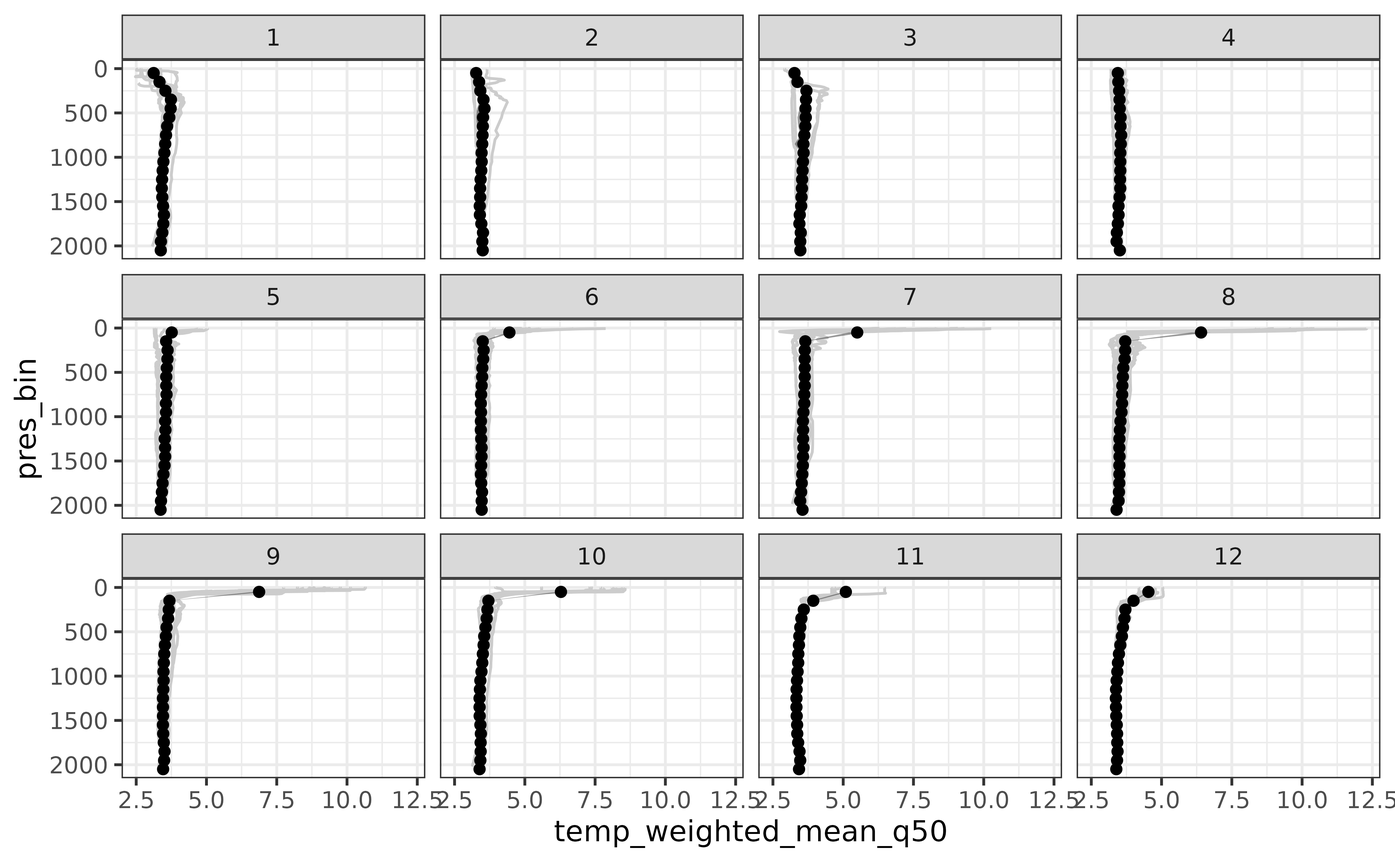
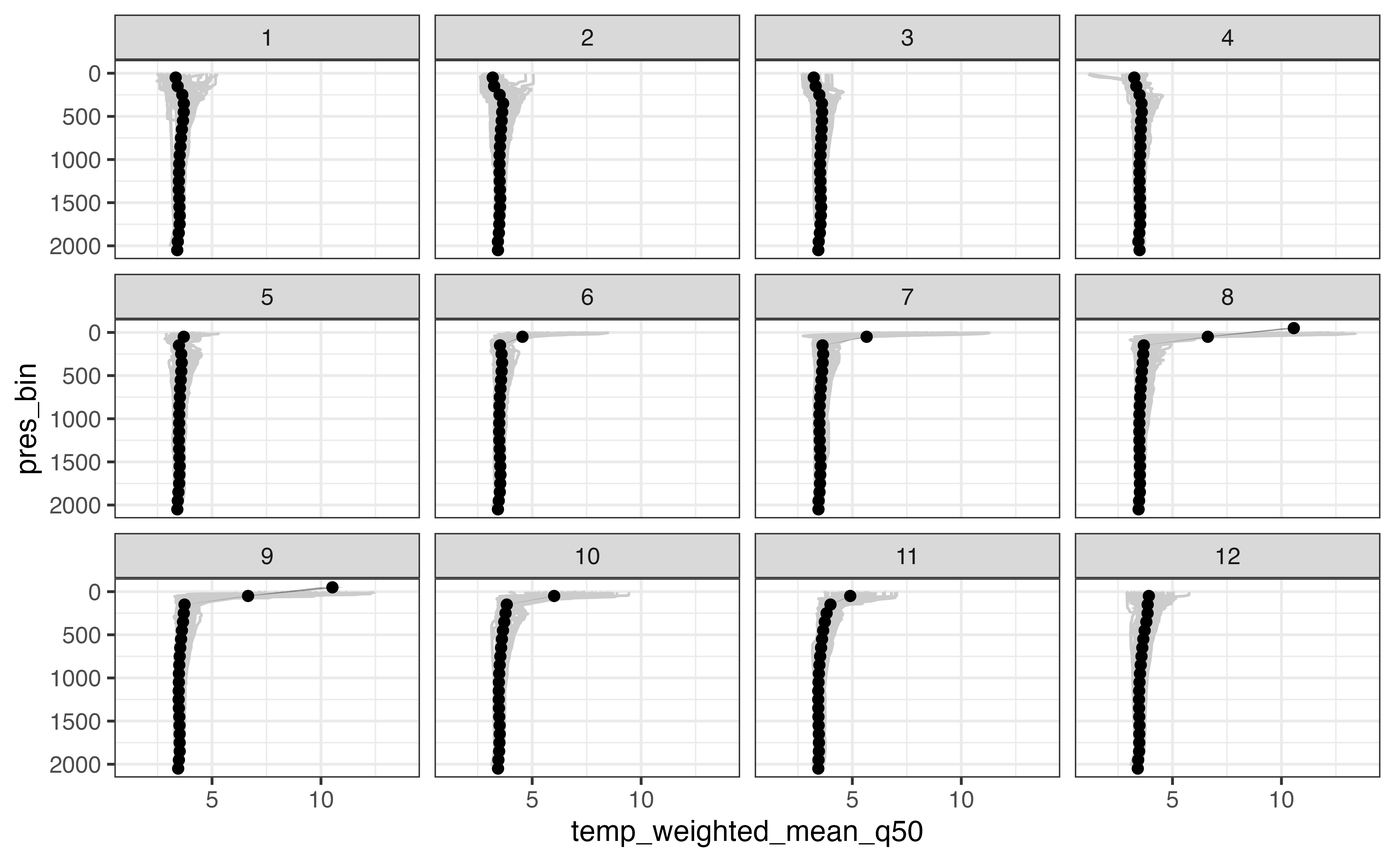
Built site for argodata: 0.0.0.9000@ea672b8

diff --git a/articles/articles/virtual-mooring.html b/articles/articles/virtual-mooring.html
@@ -108,7 +108,6 @@
 <div class="sourceCode" id="cb3"><pre class="downlit sourceCode r">
 <code class="sourceCode R"><span class="va">mooring_start</span> <span class="op">&lt;-</span> <span class="fu"><a href="https://rdrr.io/r/base/as.Date.html">as.Date</a></span><span class="op">(</span><span class="st">"2011-01-01"</span><span class="op">)</span>
 <span class="va">mooring_end</span> <span class="op">&lt;-</span> <span class="fu"><a href="https://rdrr.io/r/base/as.Date.html">as.Date</a></span><span class="op">(</span><span class="st">"2019-12-31"</span><span class="op">)</span></code></pre></div>
-<p>Finally, it is worth considering whether or not the “realtime” or “delayed” data sets best suits your use-case. The delayed data set is more likely to have poor-quality measurements corrected; however, the realtime data set may have more profiles available. You should pick one or the other to avoid double-counting profiles collected by the same float! In this article we will use the realtime data set.</p>
 <p>An index of all profiles available from the Argo program is available by calling <code><a href="../../reference/argo_global_meta.html">argo_global_prof()</a></code>. This will take 20-60 seconds to load depending on your internet connection; if you would like to avoid downloading the index file more than once you can <a href="https://github.com/ArgoCanada/argodata#installation">configure a persistent cache directory</a>, but be aware that this index is updated frequently.</p>
 <div class="sourceCode" id="cb4"><pre class="downlit sourceCode r">
 <code class="sourceCode R"><span class="va">profiles</span> <span class="op">&lt;-</span> <span class="fu"><a href="../../reference/argo_global_meta.html">argo_global_prof</a></span><span class="op">(</span><span class="op">)</span> <span class="op">%&gt;%</span>
@@ -121,26 +120,25 @@
     date_min <span class="op">=</span> <span class="va">mooring_start</span>,
     date_max <span class="op">=</span> <span class="va">mooring_end</span>
   <span class="op">)</span> <span class="op">%&gt;%</span> 
-  <span class="fu"><a href="../../reference/argo_filter_radius.html">argo_filter_data_mode</a></span><span class="op">(</span><span class="st">"realtime"</span><span class="op">)</span> <span class="op">%&gt;%</span> 
   <span class="fu"><a href="../../reference/argo_path_info.html">argo_extract_path_info</a></span><span class="op">(</span><span class="op">)</span> <span class="op">%&gt;%</span> 
   <span class="fu"><a href="https://dplyr.tidyverse.org/reference/select.html">select</a></span><span class="op">(</span><span class="va">file</span>, <span class="va">file_float</span>, <span class="va">date</span>, <span class="va">latitude</span>, <span class="va">longitude</span>, <span class="fu"><a href="https://tidyselect.r-lib.org/reference/everything.html">everything</a></span><span class="op">(</span><span class="op">)</span><span class="op">)</span> <span class="op">%&gt;%</span> 
   <span class="fu"><a href="https://dplyr.tidyverse.org/reference/arrange.html">arrange</a></span><span class="op">(</span><span class="va">date</span><span class="op">)</span>
 
 <span class="va">profiles</span>
-<span class="co">#&gt; # A tibble: 146 × 14</span>
+<span class="co">#&gt; # A tibble: 1,066 × 14</span>
 <span class="co">#&gt;    file   file_float date                latitude longitude file_type file_cycle</span>
 <span class="co">#&gt;    &lt;chr&gt;  &lt;chr&gt;      &lt;dttm&gt;                 &lt;dbl&gt;     &lt;dbl&gt; &lt;chr&gt;          &lt;int&gt;</span>
-<span class="co">#&gt;  1 meds/… 4901167    2011-07-03 12:58:00     56.1     -51.8 prof               6</span>
-<span class="co">#&gt;  2 meds/… 4901167    2011-07-13 14:27:00     56.3     -51.5 prof               7</span>
-<span class="co">#&gt;  3 meds/… 4901167    2011-07-23 12:54:00     56.2     -51.4 prof               8</span>
-<span class="co">#&gt;  4 meds/… 4901163    2011-07-30 17:58:00     56.7     -48.6 prof               8</span>
-<span class="co">#&gt;  5 meds/… 4901167    2011-08-02 14:32:00     56.0     -51.1 prof               9</span>
-<span class="co">#&gt;  6 meds/… 4901163    2011-08-09 16:16:00     56.8     -48.7 prof               9</span>
-<span class="co">#&gt;  7 meds/… 4901167    2011-08-12 13:01:00     55.8     -51.0 prof              10</span>
-<span class="co">#&gt;  8 meds/… 4901163    2011-08-19 16:41:00     56.8     -49.1 prof              10</span>
-<span class="co">#&gt;  9 meds/… 4901167    2011-08-22 14:24:00     56.5     -50.2 prof              11</span>
-<span class="co">#&gt; 10 meds/… 4901163    2011-08-29 18:08:00     56.7     -49.3 prof              11</span>
-<span class="co">#&gt; # … with 136 more rows, and 7 more variables: file_data_mode &lt;chr&gt;,</span>
+<span class="co">#&gt;  1 corio… 6900562    2011-01-04 18:46:44     56.4     -51.5 prof              58</span>
+<span class="co">#&gt;  2 corio… 6900555    2011-01-10 16:40:12     56.4     -47.6 prof              60</span>
+<span class="co">#&gt;  3 corio… 6900562    2011-01-19 18:10:01     56.1     -51.7 prof              59</span>
+<span class="co">#&gt;  4 meds/… 4900683    2011-01-27 03:55:00     54.7     -49.0 prof             170</span>
+<span class="co">#&gt;  5 meds/… 4901152    2011-01-27 23:17:00     55.3     -47.2 prof              26</span>
+<span class="co">#&gt;  6 meds/… 4900683    2011-02-06 07:13:00     55.0     -48.7 prof             171</span>
+<span class="co">#&gt;  7 meds/… 4900683    2011-02-16 03:49:00     55.2     -47.9 prof             172</span>
+<span class="co">#&gt;  8 corio… 6900562    2011-02-18 17:56:00     56.4     -51.2 prof              61</span>
+<span class="co">#&gt;  9 meds/… 4901123    2011-02-25 08:59:00     56.7     -50.8 prof              65</span>
+<span class="co">#&gt; 10 meds/… 4901123    2011-03-07 11:33:00     56.7     -50.9 prof              66</span>
+<span class="co">#&gt; # … with 1,056 more rows, and 7 more variables: file_data_mode &lt;chr&gt;,</span>
 <span class="co">#&gt; #   file_modifier &lt;chr&gt;, file_descending &lt;lgl&gt;, ocean &lt;chr&gt;,</span>
 <span class="co">#&gt; #   profiler_type &lt;dbl&gt;, institution &lt;chr&gt;, date_update &lt;dttm&gt;</span></code></pre></div>
 <p>A good sanity check is to examine the distribution of profiles in space and time, as we’ll be spending a lot of time examining the interactions between these dimensions. Below I’ve created a bar plot to examine the distribution of profiles both within and between years: there is a lot of variability! We will come back to this later on.</p>
@@ -174,24 +172,24 @@
 <div class="sourceCode" id="cb7"><pre class="downlit sourceCode r">
 <code class="sourceCode R"><span class="va">levels</span> <span class="op">&lt;-</span> <span class="fu"><a href="../../reference/argo_prof_levels.html">argo_prof_levels</a></span><span class="op">(</span><span class="va">profiles</span><span class="op">)</span> <span class="op">%&gt;%</span> 
   <span class="fu"><a href="https://dplyr.tidyverse.org/reference/select.html">select</a></span><span class="op">(</span><span class="va">file</span>, <span class="va">pres</span>, <span class="va">temp</span>, <span class="va">temp_qc</span>, <span class="fu"><a href="https://tidyselect.r-lib.org/reference/everything.html">everything</a></span><span class="op">(</span><span class="op">)</span><span class="op">)</span>
-<span class="co">#&gt; Downloading 146 files from 'https://data-argo.ifremer.fr'</span>
-<span class="co">#&gt; Extracting from 146 files</span>
+<span class="co">#&gt; Downloading 1066 files from 'https://data-argo.ifremer.fr'</span>
+<span class="co">#&gt; Extracting from 1066 files</span>
 
 <span class="va">levels</span>
-<span class="co">#&gt; # A tibble: 208,728 × 18</span>
+<span class="co">#&gt; # A tibble: 654,686 × 18</span>
 <span class="co">#&gt;    file                 pres  temp temp_qc n_levels n_prof pres_qc pres_adjusted</span>
 <span class="co">#&gt;    &lt;chr&gt;               &lt;dbl&gt; &lt;dbl&gt; &lt;chr&gt;      &lt;int&gt;  &lt;int&gt; &lt;chr&gt;           &lt;dbl&gt;</span>
-<span class="co">#&gt;  1 meds/4901167/profi…  6.70  7.24 1              1      1 1                6.90</span>
-<span class="co">#&gt;  2 meds/4901167/profi… 10.8   6.83 1              2      1 1               11   </span>
-<span class="co">#&gt;  3 meds/4901167/profi… 20.1   5.51 1              3      1 1               20.3 </span>
-<span class="co">#&gt;  4 meds/4901167/profi… 30.2   3.85 1              4      1 1               30.4 </span>
-<span class="co">#&gt;  5 meds/4901167/profi… 40.5   3.68 1              5      1 1               40.7 </span>
-<span class="co">#&gt;  6 meds/4901167/profi… 49.9   3.88 1              6      1 1               50.1 </span>
-<span class="co">#&gt;  7 meds/4901167/profi… 59.8   4.01 1              7      1 1               60   </span>
-<span class="co">#&gt;  8 meds/4901167/profi… 69     3.95 1              8      1 1               69.2 </span>
-<span class="co">#&gt;  9 meds/4901167/profi… 80.6   3.63 1              9      1 1               80.8 </span>
-<span class="co">#&gt; 10 meds/4901167/profi… 90.6   3.94 1             10      1 1               90.8 </span>
-<span class="co">#&gt; # … with 208,718 more rows, and 10 more variables: pres_adjusted_qc &lt;chr&gt;,</span>
+<span class="co">#&gt;  1 coriolis/6900562/p…  10    5.20 1              1      1 1                8.10</span>
+<span class="co">#&gt;  2 coriolis/6900562/p…  19.9  5.23 1              2      1 1               18   </span>
+<span class="co">#&gt;  3 coriolis/6900562/p…  30.5  5.20 1              3      1 1               28.6 </span>
+<span class="co">#&gt;  4 coriolis/6900562/p…  40.5  5.07 1              4      1 1               38.6 </span>
+<span class="co">#&gt;  5 coriolis/6900562/p…  48    4.88 1              5      1 1               46.1 </span>
+<span class="co">#&gt;  6 coriolis/6900562/p…  60.5  4.87 1              6      1 1               58.6 </span>
+<span class="co">#&gt;  7 coriolis/6900562/p…  70.4  4.87 1              7      1 1               68.5 </span>
+<span class="co">#&gt;  8 coriolis/6900562/p…  80.2  4.86 1              8      1 1               78.3 </span>
+<span class="co">#&gt;  9 coriolis/6900562/p…  99.9  4.83 1              9      1 1               98   </span>
+<span class="co">#&gt; 10 coriolis/6900562/p… 120    4.81 1             10      1 1              118.  </span>
+<span class="co">#&gt; # … with 654,676 more rows, and 10 more variables: pres_adjusted_qc &lt;chr&gt;,</span>
 <span class="co">#&gt; #   pres_adjusted_error &lt;dbl&gt;, temp_adjusted &lt;dbl&gt;, temp_adjusted_qc &lt;chr&gt;,</span>
 <span class="co">#&gt; #   temp_adjusted_error &lt;dbl&gt;, psal &lt;dbl&gt;, psal_qc &lt;chr&gt;, psal_adjusted &lt;dbl&gt;,</span>
 <span class="co">#&gt; #   psal_adjusted_qc &lt;chr&gt;, psal_adjusted_error &lt;dbl&gt;</span></code></pre></div>
@@ -204,7 +202,7 @@
 <code class="sourceCode R"><span class="fu"><a href="https://ggplot2.tidyverse.org/reference/ggplot.html">ggplot</a></span><span class="op">(</span><span class="va">levels</span>, <span class="fu"><a href="https://ggplot2.tidyverse.org/reference/aes.html">aes</a></span><span class="op">(</span>y <span class="op">=</span> <span class="va">pres</span>, x <span class="op">=</span> <span class="va">temp</span>, col <span class="op">=</span> <span class="va">temp_qc</span><span class="op">)</span><span class="op">)</span> <span class="op">+</span>
   <span class="fu">geom_point</span><span class="op">(</span><span class="op">)</span> <span class="op">+</span>
   <span class="fu">scale_y_reverse</span><span class="op">(</span><span class="op">)</span>
-<span class="co">#&gt; Warning: Removed 165011 rows containing missing values (geom_point).</span></code></pre></div>
+<span class="co">#&gt; Warning: Removed 369986 rows containing missing values (geom_point).</span></code></pre></div>
 <p><img src="virtual-mooring_files/figure-html/unnamed-chunk-8-1.png" width="2187.5"></p>
 <p>From this plot it’s clear that there are some points with clearly bad values that we need to take care of. A similar plot of <code>pres_qc</code> indicates that there are some bad pressure values as well. Depending what stage you are at in your analysis, you may want to remove rows that you can’t use in future analysis or set these values to <code>NA</code>. I’ll demonstrate the latter here using <code><a href="../../reference/argo_qc_censor_if_not.html">argo_qc_censor_if_not()</a></code>, which sets values to <code>NA</code> where the paired <code>_qc</code> column is not in a specified vector of values. The only value that makes sense to keep based on a plot of our results is <code>1</code>, which corresponds to “good data” in the reference table (beware that not all data marked “good” has been checked with the same degree of scrutiny!).</p>
 <div class="sourceCode" id="cb9"><pre class="downlit sourceCode r">
@@ -218,7 +216,7 @@
     alpha <span class="op">=</span> <span class="fl">0.05</span>
   <span class="op">)</span> <span class="op">+</span>
   <span class="fu">scale_y_reverse</span><span class="op">(</span><span class="op">)</span>
-<span class="co">#&gt; Warning: Removed 166713 row(s) containing missing values (geom_path).</span></code></pre></div>
+<span class="co">#&gt; Warning: Removed 375794 row(s) containing missing values (geom_path).</span></code></pre></div>
 <p><img src="virtual-mooring_files/figure-html/unnamed-chunk-9-1.png" width="2187.5"></p>
 <p>We’ve set a lot of values to <code>NA</code> - in some cases many profiles worth. While we do want to keep a record of levels even if the temperature was set to <code>NA</code> because of its <code>_qc</code> column value, we also don’t need profiles where there is little temperature information, and including them in our data moving forward is not useful.</p>
 <div class="sourceCode" id="cb10"><pre class="downlit sourceCode r">
@@ -248,20 +246,20 @@
   <span class="fu"><a href="https://dplyr.tidyverse.org/reference/select.html">select</a></span><span class="op">(</span><span class="va">file</span>, <span class="va">longitude</span>, <span class="va">latitude</span>, <span class="va">distance_km</span>, <span class="va">distance_weight</span><span class="op">)</span>
 
 <span class="va">profile_weighted</span>
-<span class="co">#&gt; # A tibble: 146 × 5</span>
-<span class="co">#&gt;    file                                  longitude latitude distance_km distance_weight</span>
-<span class="co">#&gt;    &lt;chr&gt;                                     &lt;dbl&gt;    &lt;dbl&gt;       &lt;dbl&gt;           &lt;dbl&gt;</span>
-<span class="co">#&gt;  1 meds/4901167/profiles/R4901167_006.nc     -51.8     56.1       150.           0.0817</span>
-<span class="co">#&gt;  2 meds/4901167/profiles/R4901167_007.nc     -51.5     56.3       139.           0.0847</span>
-<span class="co">#&gt;  3 meds/4901167/profiles/R4901167_008.nc     -51.4     56.2       127.           0.0886</span>
-<span class="co">#&gt;  4 meds/4901163/profiles/R4901163_008.nc     -48.6     56.7       129.           0.0879</span>
-<span class="co">#&gt;  5 meds/4901167/profiles/R4901167_009.nc     -51.1     56.0       107.           0.0968</span>
-<span class="co">#&gt;  6 meds/4901163/profiles/R4901163_009.nc     -48.7     56.8       137.           0.0855</span>
-<span class="co">#&gt;  7 meds/4901167/profiles/R4901167_010.nc     -51.0     55.8        96.2          0.102 </span>
-<span class="co">#&gt;  8 meds/4901163/profiles/R4901163_010.nc     -49.1     56.8       125.           0.0895</span>
-<span class="co">#&gt;  9 meds/4901167/profiles/R4901167_011.nc     -50.2     56.5        93.7          0.103 </span>
-<span class="co">#&gt; 10 meds/4901163/profiles/R4901163_011.nc     -49.3     56.7       117.           0.0924</span>
-<span class="co">#&gt; # … with 136 more rows</span></code></pre></div>
+<span class="co">#&gt; # A tibble: 1,066 × 5</span>
+<span class="co">#&gt;    file                           longitude latitude distance_km distance_weight</span>
+<span class="co">#&gt;    &lt;chr&gt;                              &lt;dbl&gt;    &lt;dbl&gt;       &lt;dbl&gt;           &lt;dbl&gt;</span>
+<span class="co">#&gt;  1 coriolis/6900562/profiles/D69…     -51.5     56.4       146.           0.0828</span>
+<span class="co">#&gt;  2 coriolis/6900555/profiles/D69…     -47.6     56.4       141.           0.0844</span>
+<span class="co">#&gt;  3 coriolis/6900562/profiles/D69…     -51.7     56.1       144.           0.0834</span>
+<span class="co">#&gt;  4 meds/4900683/profiles/D490068…     -49.0     54.7       118.           0.0921</span>
+<span class="co">#&gt;  5 meds/4901152/profiles/D490115…     -47.2     55.3       148.           0.0823</span>
+<span class="co">#&gt;  6 meds/4900683/profiles/D490068…     -48.7     55.0        92.3          0.104 </span>
+<span class="co">#&gt;  7 meds/4900683/profiles/D490068…     -47.9     55.2       119.           0.0915</span>
+<span class="co">#&gt;  8 coriolis/6900562/profiles/D69…     -51.2     56.4       131.           0.0875</span>
+<span class="co">#&gt;  9 meds/4901123/profiles/D490112…     -50.8     56.7       140.           0.0845</span>
+<span class="co">#&gt; 10 meds/4901123/profiles/D490112…     -50.9     56.7       142.           0.0838</span>
+<span class="co">#&gt; # … with 1,056 more rows</span></code></pre></div>
 <p>The next step is to choose bins that are appropriate to the scale of the problem. In this case, we’re interested in monthly bins (regardless of year) and depth bins 10 decibars in height. These bin sizes reflect the amount of data we have: if we were only summarizing 2019, for which there are many profiles with high-resolution sampling intervals, we may be able to use smaller bins (e.g., one bin per month per year or 1 decibar height).</p>
 <div class="sourceCode" id="cb12"><pre class="downlit sourceCode r">
 <code class="sourceCode R"><span class="va">levels_binned</span> <span class="op">&lt;-</span> <span class="va">levels_clean</span> <span class="op">%&gt;%</span>
@@ -273,20 +271,20 @@
   <span class="fu"><a href="https://dplyr.tidyverse.org/reference/select.html">select</a></span><span class="op">(</span><span class="va">pres_bin</span>, <span class="va">date_bin</span>, <span class="fu"><a href="https://tidyselect.r-lib.org/reference/everything.html">everything</a></span><span class="op">(</span><span class="op">)</span><span class="op">)</span>
 
 <span class="va">levels_binned</span>
-<span class="co">#&gt; # A tibble: 32,295 × 21</span>
+<span class="co">#&gt; # A tibble: 258,500 × 21</span>
 <span class="co">#&gt;    pres_bin date_bin file             pres  temp temp_qc n_levels n_prof pres_qc</span>
 <span class="co">#&gt;       &lt;dbl&gt;    &lt;dbl&gt; &lt;chr&gt;           &lt;dbl&gt; &lt;dbl&gt; &lt;chr&gt;      &lt;int&gt;  &lt;int&gt; &lt;chr&gt;  </span>
-<span class="co">#&gt;  1       50        7 meds/4901167/p…  6.70  7.24 1              1      1 1      </span>
-<span class="co">#&gt;  2       50        7 meds/4901167/p… 10.8   6.83 1              2      1 1      </span>
-<span class="co">#&gt;  3       50        7 meds/4901167/p… 20.1   5.51 1              3      1 1      </span>
-<span class="co">#&gt;  4       50        7 meds/4901167/p… 30.2   3.85 1              4      1 1      </span>
-<span class="co">#&gt;  5       50        7 meds/4901167/p… 40.5   3.68 1              5      1 1      </span>
-<span class="co">#&gt;  6       50        7 meds/4901167/p… 49.9   3.88 1              6      1 1      </span>
-<span class="co">#&gt;  7       50        7 meds/4901167/p… 59.8   4.01 1              7      1 1      </span>
-<span class="co">#&gt;  8       50        7 meds/4901167/p… 69     3.95 1              8      1 1      </span>
-<span class="co">#&gt;  9       50        7 meds/4901167/p… 80.6   3.63 1              9      1 1      </span>
-<span class="co">#&gt; 10       50        7 meds/4901167/p… 90.6   3.94 1             10      1 1      </span>
-<span class="co">#&gt; # … with 32,285 more rows, and 12 more variables: pres_adjusted &lt;dbl&gt;,</span>
+<span class="co">#&gt;  1       50        1 coriolis/69005…  10    5.20 1              1      1 1      </span>
+<span class="co">#&gt;  2       50        1 coriolis/69005…  19.9  5.23 1              2      1 1      </span>
+<span class="co">#&gt;  3       50        1 coriolis/69005…  30.5  5.20 1              3      1 1      </span>
+<span class="co">#&gt;  4       50        1 coriolis/69005…  40.5  5.07 1              4      1 1      </span>
+<span class="co">#&gt;  5       50        1 coriolis/69005…  48    4.88 1              5      1 1      </span>
+<span class="co">#&gt;  6       50        1 coriolis/69005…  60.5  4.87 1              6      1 1      </span>
+<span class="co">#&gt;  7       50        1 coriolis/69005…  70.4  4.87 1              7      1 1      </span>
+<span class="co">#&gt;  8       50        1 coriolis/69005…  80.2  4.86 1              8      1 1      </span>
+<span class="co">#&gt;  9       50        1 coriolis/69005…  99.9  4.83 1              9      1 1      </span>
+<span class="co">#&gt; 10      150        1 coriolis/69005… 120    4.81 1             10      1 1      </span>
+<span class="co">#&gt; # … with 258,490 more rows, and 12 more variables: pres_adjusted &lt;dbl&gt;,</span>
 <span class="co">#&gt; #   pres_adjusted_qc &lt;chr&gt;, pres_adjusted_error &lt;dbl&gt;, temp_adjusted &lt;dbl&gt;,</span>
 <span class="co">#&gt; #   temp_adjusted_qc &lt;chr&gt;, temp_adjusted_error &lt;dbl&gt;, psal &lt;dbl&gt;,</span>
 <span class="co">#&gt; #   psal_qc &lt;chr&gt;, psal_adjusted &lt;dbl&gt;, psal_adjusted_qc &lt;chr&gt;,</span>
@@ -305,21 +303,21 @@
   <span class="fu"><a href="https://dplyr.tidyverse.org/reference/select.html">select</a></span><span class="op">(</span><span class="va">pres_bin</span>, <span class="va">date_bin</span>, <span class="va">weight</span>, <span class="va">file</span>, <span class="va">date</span>, <span class="va">pres</span>, <span class="va">temp</span>, <span class="fu"><a href="https://tidyselect.r-lib.org/reference/everything.html">everything</a></span><span class="op">(</span><span class="op">)</span><span class="op">)</span>
 
 <span class="va">levels_binned_weighted</span>
-<span class="co">#&gt; # A tibble: 32,295 × 27</span>
+<span class="co">#&gt; # A tibble: 258,500 × 27</span>
 <span class="co">#&gt;    pres_bin date_bin  weight file        date                 pres  temp temp_qc</span>
 <span class="co">#&gt;       &lt;dbl&gt;    &lt;dbl&gt;   &lt;dbl&gt; &lt;chr&gt;       &lt;dttm&gt;              &lt;dbl&gt; &lt;dbl&gt; &lt;chr&gt;  </span>
-<span class="co">#&gt;  1       50        7 0.00861 meds/49011… 2011-07-03 12:58:00  6.70  7.24 1      </span>
-<span class="co">#&gt;  2       50        7 0.00861 meds/49011… 2011-07-03 12:58:00 10.8   6.83 1      </span>
-<span class="co">#&gt;  3       50        7 0.00861 meds/49011… 2011-07-03 12:58:00 20.1   5.51 1      </span>
-<span class="co">#&gt;  4       50        7 0.00861 meds/49011… 2011-07-03 12:58:00 30.2   3.85 1      </span>
-<span class="co">#&gt;  5       50        7 0.00861 meds/49011… 2011-07-03 12:58:00 40.5   3.68 1      </span>
-<span class="co">#&gt;  6       50        7 0.00861 meds/49011… 2011-07-03 12:58:00 49.9   3.88 1      </span>
-<span class="co">#&gt;  7       50        7 0.00861 meds/49011… 2011-07-03 12:58:00 59.8   4.01 1      </span>
-<span class="co">#&gt;  8       50        7 0.00861 meds/49011… 2011-07-03 12:58:00 69     3.95 1      </span>
-<span class="co">#&gt;  9       50        7 0.00861 meds/49011… 2011-07-03 12:58:00 80.6   3.63 1      </span>
-<span class="co">#&gt; 10       50        7 0.00861 meds/49011… 2011-07-03 12:58:00 90.6   3.94 1      </span>
-<span class="co">#&gt; # … with 32,285 more rows, and 19 more variables: n_levels &lt;int&gt;, n_prof &lt;int&gt;,</span>
-<span class="co">#&gt; #   pres_qc &lt;chr&gt;, pres_adjusted &lt;dbl&gt;, pres_adjusted_qc &lt;chr&gt;,</span>
+<span class="co">#&gt;  1       50        1 0.00161 coriolis/6… 2011-01-04 18:46:44  10    5.20 1      </span>
+<span class="co">#&gt;  2       50        1 0.00161 coriolis/6… 2011-01-04 18:46:44  19.9  5.23 1      </span>
+<span class="co">#&gt;  3       50        1 0.00161 coriolis/6… 2011-01-04 18:46:44  30.5  5.20 1      </span>
+<span class="co">#&gt;  4       50        1 0.00161 coriolis/6… 2011-01-04 18:46:44  40.5  5.07 1      </span>
+<span class="co">#&gt;  5       50        1 0.00161 coriolis/6… 2011-01-04 18:46:44  48    4.88 1      </span>
+<span class="co">#&gt;  6       50        1 0.00161 coriolis/6… 2011-01-04 18:46:44  60.5  4.87 1      </span>
+<span class="co">#&gt;  7       50        1 0.00161 coriolis/6… 2011-01-04 18:46:44  70.4  4.87 1      </span>
+<span class="co">#&gt;  8       50        1 0.00161 coriolis/6… 2011-01-04 18:46:44  80.2  4.86 1      </span>
+<span class="co">#&gt;  9       50        1 0.00161 coriolis/6… 2011-01-04 18:46:44  99.9  4.83 1      </span>
+<span class="co">#&gt; 10      150        1 0.00362 coriolis/6… 2011-01-04 18:46:44 120    4.81 1      </span>
+<span class="co">#&gt; # … with 258,490 more rows, and 19 more variables: n_levels &lt;int&gt;,</span>
+<span class="co">#&gt; #   n_prof &lt;int&gt;, pres_qc &lt;chr&gt;, pres_adjusted &lt;dbl&gt;, pres_adjusted_qc &lt;chr&gt;,</span>
 <span class="co">#&gt; #   pres_adjusted_error &lt;dbl&gt;, temp_adjusted &lt;dbl&gt;, temp_adjusted_qc &lt;chr&gt;,</span>
 <span class="co">#&gt; #   temp_adjusted_error &lt;dbl&gt;, psal &lt;dbl&gt;, psal_qc &lt;chr&gt;, psal_adjusted &lt;dbl&gt;,</span>
 <span class="co">#&gt; #   psal_adjusted_qc &lt;chr&gt;, psal_adjusted_error &lt;dbl&gt;, profile_weight &lt;dbl&gt;,</span>
@@ -345,8 +343,8 @@
   <span class="fu">geom_point</span><span class="op">(</span><span class="op">)</span> <span class="op">+</span>
   <span class="fu">scale_y_reverse</span><span class="op">(</span><span class="op">)</span> <span class="op">+</span>
   <span class="fu">facet_wrap</span><span class="op">(</span><span class="fu"><a href="https://dplyr.tidyverse.org/reference/vars.html">vars</a></span><span class="op">(</span><span class="va">date_bin</span><span class="op">)</span><span class="op">)</span>
-<span class="co">#&gt; Warning: Removed 1173 row(s) containing missing values (geom_path).</span>
-<span class="co">#&gt; Warning: Removed 2 rows containing missing values (geom_point).</span></code></pre></div>
+<span class="co">#&gt; Warning: Removed 5623 row(s) containing missing values (geom_path).</span>
+<span class="co">#&gt; Warning: Removed 6 rows containing missing values (geom_point).</span></code></pre></div>
 <p><img src="virtual-mooring_files/figure-html/unnamed-chunk-15-1.png" width="2187.5"></p>
 <p>This is a good first step in your analysis: if the above diagram was not in line with our knowledge of the ocean at this location, it is a clue that some part of our analysis went wrong. However, it is not able to communicate the spread of values that we observed in each bin. Are the profiles for a given month of the year similar over the last 10 years or not?</p>
 <p>One technique that allows calculation of error in this way is sampling: we can draw a random sample of size <code>n</code> from the values available for each bin (applying the weights such that values with a higher weight are more likely to be drawn than others). We can repeat this analysis <code>k</code> times and use the distribution of the values we observe for each bin to communicate the uncertainty of our results.</p>
@@ -384,8 +382,8 @@
   <span class="fu">geom_point</span><span class="op">(</span><span class="op">)</span> <span class="op">+</span>
   <span class="fu">scale_y_reverse</span><span class="op">(</span><span class="op">)</span> <span class="op">+</span>
   <span class="fu">facet_wrap</span><span class="op">(</span><span class="fu"><a href="https://dplyr.tidyverse.org/reference/vars.html">vars</a></span><span class="op">(</span><span class="va">date_bin</span><span class="op">)</span><span class="op">)</span>
-<span class="co">#&gt; Warning: Removed 1173 row(s) containing missing values (geom_path).</span>
-<span class="co">#&gt; Warning: Removed 10 rows containing missing values (geom_point).</span></code></pre></div>
+<span class="co">#&gt; Warning: Removed 5623 row(s) containing missing values (geom_path).</span>
+<span class="co">#&gt; Warning: Removed 13 rows containing missing values (geom_point).</span></code></pre></div>
 <p><img src="virtual-mooring_files/figure-html/unnamed-chunk-17-1.png" width="2187.5"></p>
 <p>In this case the weighted mean and randomized approach give the same results. This is a good thing! Another thing to note is that in the above example the weighted mean varies little even with the bootstrapping approach (the <code>geom_ribbon()</code> behind each profile is barely if at all visible).</p>
 </div>
@@ -466,7 +464,7 @@
     col <span class="op">=</span> <span class="st">"grey40"</span>
   <span class="op">)</span> <span class="op">+</span>
   <span class="fu"><a href="https://paleolimbot.github.io/ggspatial/reference/layer_spatial.html">layer_spatial</a></span><span class="op">(</span><span class="va">section_profile_weighted</span><span class="op">$</span><span class="va">geog</span><span class="op">)</span>
-<span class="co">#&gt; Linking to GEOS 3.8.0, GDAL 3.0.4, PROJ 6.3.1</span></code></pre></div>
+<span class="co">#&gt; Linking to GEOS 3.8.1, GDAL 3.2.1, PROJ 7.2.1</span></code></pre></div>
 <p><img src="virtual-mooring_files/figure-html/unnamed-chunk-21-1.png" width="2187.5"></p>
 <p>From here we have enough information to load our levels.</p>
 <div class="sourceCode" id="cb22"><pre class="downlit sourceCode r">

diff --git a/index.html b/index.html
@@ -89,7 +89,7 @@
 <a href="#argodata" class="anchor"></a>argodata</h1></div>
 <!-- badges: start -->
 
-<p>The goal of argodata is to provide a data frame-based interface to data generated by the <a href="https://argo.ucsd.edu">Argo floats program</a>. This package provides low-level access to all variables contained within Argo NetCDF files; for a higher-level interface with built-in visualization and quality control, see the <a href="https://github.com/ArgoCanada/argoFloats">argoFloats package</a>.</p>
+<p>The goal of argodata is to provide a data frame-based interface to data generated by the <a href="https://argo.ucsd.edu">Argo floats program</a> (<a href="https://doi.org/10.17882/42182">doi:10.17882/42182</a>). This package provides low-level access to all variables contained within Argo NetCDF files; for a higher-level interface with built-in visualization and quality control, see the <a href="https://github.com/ArgoCanada/argoFloats">argoFloats package</a>.</p>
 <div id="installation" class="section level2">
 <h2 class="hasAnchor">
 <a href="#installation" class="anchor"></a>Installation</h2>
@@ -112,7 +112,7 @@
 <li>Use <code><a href="reference/argo_filter_radius.html">argo_filter_radius()</a></code>, other <code>argo_filter_*()</code> functions, or <code><a href="https://dplyr.tidyverse.org/reference/filter.html">dplyr::filter()</a></code> to subset the index using search criteria.</li>
 <li>Use extractor functions like <code><a href="reference/argo_prof_levels.html">argo_prof_levels()</a></code>, <code><a href="reference/argo_traj_measurement.html">argo_traj_measurement()</a></code>, <code><a href="reference/argo_meta_config_param.html">argo_meta_config_param()</a></code>, and <code><a href="reference/argo_tech_tech_param.html">argo_tech_tech_param()</a></code> to read information for all files in the index subset.</li>
 </ul>
-<!-- end list --><div class="sourceCode" id="cb3"><pre class="downlit sourceCode r">
+<div class="sourceCode" id="cb3"><pre class="downlit sourceCode r">
 <code class="sourceCode R"><span class="kw"><a href="https://rdrr.io/r/base/library.html">library</a></span><span class="op">(</span><span class="va">tidyverse</span><span class="op">)</span>
 <span class="kw"><a href="https://rdrr.io/r/base/library.html">library</a></span><span class="op">(</span><span class="va"><a href="https://github.com/ArgoCanada/argodata">argodata</a></span><span class="op">)</span>
 
@@ -127,8 +127,8 @@
 <span class="co"># download, cache, and load NetCDF files</span>
 <span class="va">levels_lab_may_2020</span> <span class="op">&lt;-</span> <span class="va">prof_lab_may_2020</span> <span class="op">%&gt;%</span> 
   <span class="fu"><a href="reference/argo_prof_levels.html">argo_prof_levels</a></span><span class="op">(</span><span class="op">)</span>
+<span class="co">#&gt; Downloading 55 files from 'https://data-argo.ifremer.fr'</span>
 <span class="co">#&gt; Extracting from 55 files</span>
-
 <span class="co"># plot!</span>
 <span class="va">levels_lab_may_2020</span> <span class="op">%&gt;%</span> 
   <span class="fu"><a href="https://rdrr.io/r/stats/filter.html">filter</a></span><span class="op">(</span><span class="va">psal_qc</span> <span class="op">==</span> <span class="fl">1</span><span class="op">)</span> <span class="op">%&gt;%</span> 
@@ -150,7 +150,7 @@
 <span class="op">)</span>
 
 <span class="fu"><a href="reference/argo_read_prof_levels.html">argo_read_prof_levels</a></span><span class="op">(</span><span class="va">prof_file</span><span class="op">)</span>
-<span class="co">#&gt; # A tibble: 70 x 17</span>
+<span class="co">#&gt; # A tibble: 70 × 17</span>
 <span class="co">#&gt;    N_LEVELS N_PROF   PRES PRES_QC PRES_ADJUSTED PRES_ADJUSTED_QC</span>
 <span class="co">#&gt;  *    &lt;int&gt;  &lt;int&gt;  &lt;dbl&gt; &lt;chr&gt;           &lt;dbl&gt; &lt;chr&gt;           </span>
 <span class="co">#&gt;  1        1      1   9.80 1                9.80 1               </span>
@@ -163,7 +163,7 @@
 <span class="co">#&gt;  8        8      1  80.3  1               80.3  1               </span>
 <span class="co">#&gt;  9        9      1  90.2  1               90.2  1               </span>
 <span class="co">#&gt; 10       10      1 100.   1              100.   1               </span>
-<span class="co">#&gt; # ... with 60 more rows, and 11 more variables: PRES_ADJUSTED_ERROR &lt;dbl&gt;,</span>
+<span class="co">#&gt; # … with 60 more rows, and 11 more variables: PRES_ADJUSTED_ERROR &lt;dbl&gt;,</span>
 <span class="co">#&gt; #   TEMP &lt;dbl&gt;, TEMP_QC &lt;chr&gt;, TEMP_ADJUSTED &lt;dbl&gt;, TEMP_ADJUSTED_QC &lt;chr&gt;,</span>
 <span class="co">#&gt; #   TEMP_ADJUSTED_ERROR &lt;dbl&gt;, PSAL &lt;dbl&gt;, PSAL_QC &lt;chr&gt;, PSAL_ADJUSTED &lt;dbl&gt;,</span>
 <span class="co">#&gt; #   PSAL_ADJUSTED_QC &lt;chr&gt;, PSAL_ADJUSTED_ERROR &lt;dbl&gt;</span></code></pre></div>

diff --git a/reference/argo_global_meta.html b/reference/argo_global_meta.html
@@ -40,7 +40,10 @@
 
 
 <meta property="og:title" content="Load Argo global index files — argo_global_meta" />
-<meta property="og:description" content="Load Argo global index files" />
+<meta property="og:description" content="The argo_mirror() points to a directory containing millions of NetCDF
+files in which Argo data is organized. These files are indexed by category
+in the root directory of the mirror. The argo_global_*() functions provide
+access to these as data frames." />
 
 
 
@@ -126,7 +129,10 @@
     </div>
 
     <div class="ref-description">
-    <p>Load Argo global index files</p>
+    <p>The <code><a href='argo_mirror.html'>argo_mirror()</a></code> points to a directory containing millions of NetCDF
+files in which Argo data is organized. These files are indexed by category
+in the root directory of the mirror. The <code>argo_global_*()</code> functions provide
+access to these as data frames.</p>
     </div>
 
     <pre class="usage"><span class='fu'>argo_global_meta</span><span class='op'>(</span>download <span class='op'>=</span> <span class='cn'>NULL</span>, quiet <span class='op'>=</span> <span class='cn'>FALSE</span><span class='op'>)</span>
@@ -162,7 +168,20 @@ verbose error messages.</p></td>
 
     <h2 class="hasAnchor" id="value"><a class="anchor" href="#value"></a>Value</h2>
 
-    <p>A <code><a href='https://tibble.tidyverse.org/reference/tibble.html'>tibble::tibble()</a></code>.</p>
+    
+<ul>
+<li><p><code>argo_global_meta()</code>: a <code><a href='https://tibble.tidyverse.org/reference/tibble.html'>tibble::tibble()</a></code> of the Argo meta file index</p></li>
+<li><p><code>argo_global_tech()</code>: a <code><a href='https://tibble.tidyverse.org/reference/tibble.html'>tibble::tibble()</a></code> of the Argo tech file index</p></li>
+<li><p><code>argo_global_traj()</code>: a <code><a href='https://tibble.tidyverse.org/reference/tibble.html'>tibble::tibble()</a></code> of the Argo trajectory file index</p></li>
+<li><p><code>argo_global_bio_traj()</code>: a <code><a href='https://tibble.tidyverse.org/reference/tibble.html'>tibble::tibble()</a></code> of the Argo meta
+biogeochemical trajectory index</p></li>
+<li><p><code>argo_global_prof()</code>: a <code><a href='https://tibble.tidyverse.org/reference/tibble.html'>tibble::tibble()</a></code> of the Argo profile file index</p></li>
+<li><p><code>argo_global_bio_prof()</code>: a <code><a href='https://tibble.tidyverse.org/reference/tibble.html'>tibble::tibble()</a></code> of the Argo biogeochemical profile
+index</p></li>
+<li><p><code>argo_global_synthetic_prof()</code>: a <code><a href='https://tibble.tidyverse.org/reference/tibble.html'>tibble::tibble()</a></code> of the Argo
+biogeochemical synthetic profile index</p></li>
+</ul>
+
 
     <h2 class="hasAnchor" id="examples"><a class="anchor" href="#examples"></a>Examples</h2>
     <pre class="examples"><div class='input'><span class='fu'><a href='argo_cache_dir.html'>with_argo_example_cache</a></span><span class='op'>(</span><span class='op'>{</span>

diff --git a/reference/argo_reference_qc_flag.html b/reference/argo_reference_qc_flag.html
@@ -162,7 +162,7 @@ for information about specific tests.</p>
       by <span class='op'>=</span> <span class='fu'><a href='https://rdrr.io/r/base/c.html'>c</a></span><span class='op'>(</span><span class='st'>"doxy_qc"</span> <span class='op'>=</span> <span class='st'>"qc_flag"</span><span class='op'>)</span>
     <span class='op'>)</span>
 <span class='op'>}</span><span class='op'>)</span>
-</div><div class='output co'>#&gt; <span class='message'>Extracting from 1 file</span></div><div class='output co'>#&gt; <span class='warning'>Warning: '/home/runner/work/_temp/Library/argodata/cache-test/dac/csio/2902746/profiles/BR2902746_001.nc' is missing variable:</span>
+</div><div class='output co'>#&gt; <span class='message'>Extracting from 1 file</span></div><div class='output co'>#&gt; <span class='warning'>Warning: '/Users/runner/work/_temp/Library/argodata/cache-test/dac/csio/2902746/profiles/BR2902746_001.nc' is missing variable:</span>
 #&gt; <span class='warning'>'PRES_QC'</span></div><div class='output co'>#&gt; <span style='color: #949494;'># A tibble: 101 × 9</span>
 #&gt;    file    n_levels n_prof  pres  doxy doxy_qc qc_description qc_comment_realti…
 #&gt;    <span style='color: #949494; font-style: italic;'>&lt;chr&gt;</span>      <span style='color: #949494; font-style: italic;'>&lt;int&gt;</span>  <span style='color: #949494; font-style: italic;'>&lt;int&gt;</span> <span style='color: #949494; font-style: italic;'>&lt;dbl&gt;</span> <span style='color: #949494; font-style: italic;'>&lt;dbl&gt;</span> <span style='color: #949494; font-style: italic;'>&lt;chr&gt;</span>   <span style='color: #949494; font-style: italic;'>&lt;chr&gt;</span>          <span style='color: #949494; font-style: italic;'>&lt;chr&gt;</span>             

diff --git a/reference/argo_cache_dir.html b/reference/argo_cache_dir.html
@@ -218,10 +218,10 @@ updated files.</p></li>
 
     <h2 class="hasAnchor" id="examples"><a class="anchor" href="#examples"></a>Examples</h2>
     <pre class="examples"><div class='input'><span class='fu'>argo_cache_dir</span><span class='op'>(</span><span class='op'>)</span>
-</div><div class='output co'>#&gt; [1] "/tmp/RtmpysMPjU/file49e917eec9fb"</div><div class='input'>
+</div><div class='output co'>#&gt; [1] "/var/folders/24/8k48jl6d249_n_qfxwsl6xvm0000gn/T//RtmpukOrmk/file4d085ee8479c"</div><div class='input'>
 <span class='va'>temp_dir</span> <span class='op'>&lt;-</span> <span class='fu'><a href='https://rdrr.io/r/base/tempfile.html'>tempfile</a></span><span class='op'>(</span><span class='op'>)</span>
 <span class='fu'>with_argo_cache_dir</span><span class='op'>(</span><span class='va'>temp_dir</span>, <span class='fu'>argo_cache_dir</span><span class='op'>(</span><span class='op'>)</span><span class='op'>)</span>
-</div><div class='output co'>#&gt; [1] "/tmp/RtmpysMPjU/file49e97bf931c7"</div><div class='input'><span class='fu'><a href='https://rdrr.io/r/base/unlink.html'>unlink</a></span><span class='op'>(</span><span class='va'>temp_dir</span>, recursive <span class='op'>=</span> <span class='cn'>TRUE</span><span class='op'>)</span>
+</div><div class='output co'>#&gt; [1] "/var/folders/24/8k48jl6d249_n_qfxwsl6xvm0000gn/T/RtmpukOrmk/file4d0863b58371"</div><div class='input'><span class='fu'><a href='https://rdrr.io/r/base/unlink.html'>unlink</a></span><span class='op'>(</span><span class='va'>temp_dir</span>, recursive <span class='op'>=</span> <span class='cn'>TRUE</span><span class='op'>)</span>
 
 </div></pre>
   </div>

diff --git a/reference/argo_mirror.html b/reference/argo_mirror.html
@@ -150,7 +150,7 @@ using <code>options("argodata.mirror = "path/to/mirror")</code>. Use
       <th>mirror</th>
       <td><p>The URL to an Argo mirror or a path to a directory
 where Argo data has been cached or synced. According to the
-<a href='http://www.argodatamgt.org/Access-to-data/Access-via-FTP-or-HTTPS-on-GDAC'>Argo data access page</a>,
+<a href='http://www.argodatamgt.org/Access-to-data/Argo-GDAC-ftp-and-https-servers'>Argo data access page</a>,
 The following public mirrors are available:</p><ul>
 <li><p><a href='ftp://usgodae.org/pub/outgoing/argo/'>ftp://usgodae.org/pub/outgoing/argo/</a></p></li>
 <li><p><a href='ftp://ftp.ifremer.fr/ifremer/argo/'>ftp://ftp.ifremer.fr/ifremer/argo/</a></p></li>
